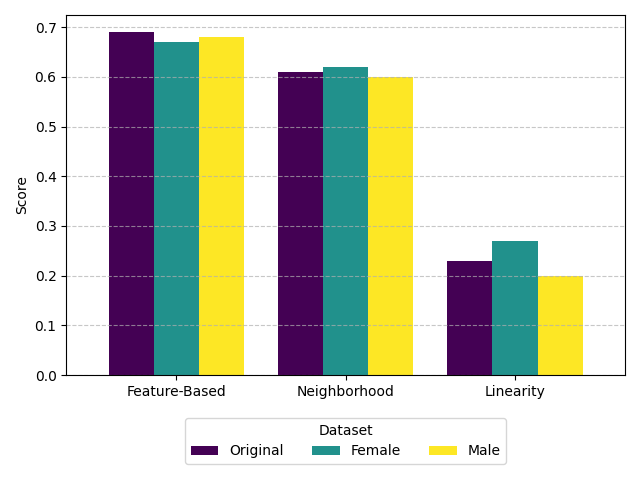
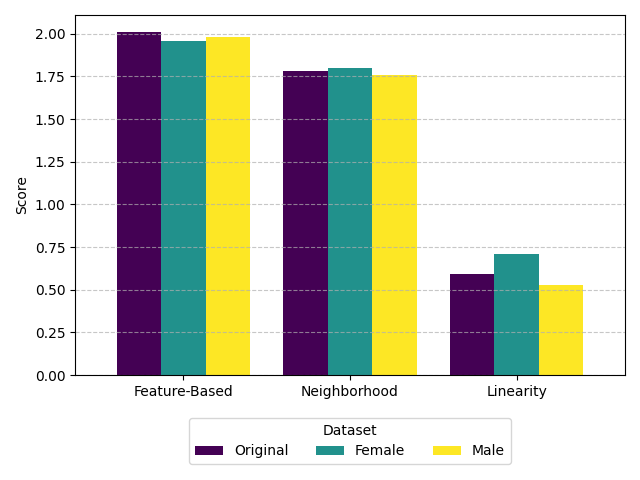
Scores for each dataset

diff --git a/IntersectionalBias/ECoL/calculate_score.py b/IntersectionalBias/ECoL/calculate_score.py
@@ -15,11 +15,11 @@ def std_dev(data):
 
 # Calculates the score for the group
 def score(data):
-    return round((mean_absolute(data)*0.5 + max_absolute(data)*0.3 + std_dev(data)*0.2),2)
+    return round((mean_absolute(data) + max_absolute(data) + std_dev(data)),2)
 
 
 
-NAME_OUTPUT = 'intersectional-bias'
+NAME_OUTPUT = 'nonWhite'
 output_path = f'outputs/outputs_complex/output-{NAME_OUTPUT}.csv'  
 data = pd.read_csv(output_path)
 

diff --git a/ILPD/ECoL/calculate_score.py b/ILPD/ECoL/calculate_score.py
@@ -15,11 +15,11 @@ def std_dev(data):
 
 # Calculates the score for the group
 def score(data):
-    return round((mean_absolute(data)*0.5 + max_absolute(data)*0.3 + std_dev(data)*0.2),2)
+    return round((mean_absolute(data) + max_absolute(data) + std_dev(data)),2)
 
 
 
-NAME_OUTPUT = 'male'
+NAME_OUTPUT = 'ILPD'
 output_path = f'outputs/outputs_complex/output-{NAME_OUTPUT}.csv'  
 data = pd.read_csv(output_path)
 

diff --git a/ILPD/ECoL/graphics_scores.py b/ILPD/ECoL/graphics_scores.py
@@ -15,7 +15,7 @@ def create():
     plt.figure(figsize=(8, 6))
     plt.bar(scores_df['Measure Group'], scores_df['Score'], color=['blue', 'orange', 'green'])
     plt.title(TITLE, fontsize=16)
-    plt.ylim(0, 0.7)
+    plt.ylim(0, 2.02)
     plt.xticks(rotation=45, fontsize=12)
     plt.tight_layout()
 

diff --git a/IntersectionalBias/ECoL/graphics_scores.py b/IntersectionalBias/ECoL/graphics_scores.py
@@ -15,7 +15,7 @@ def create():
     plt.figure(figsize=(8, 6))
     plt.bar(scores_df['Measure Group'], scores_df['Score'], color=['blue', 'orange', 'green'])
     plt.title(TITLE, fontsize=16)
-    plt.ylim(0, 0.7)
+    plt.ylim(0, 2.02)
     plt.xticks(rotation=45, fontsize=12)
     plt.tight_layout()
 
